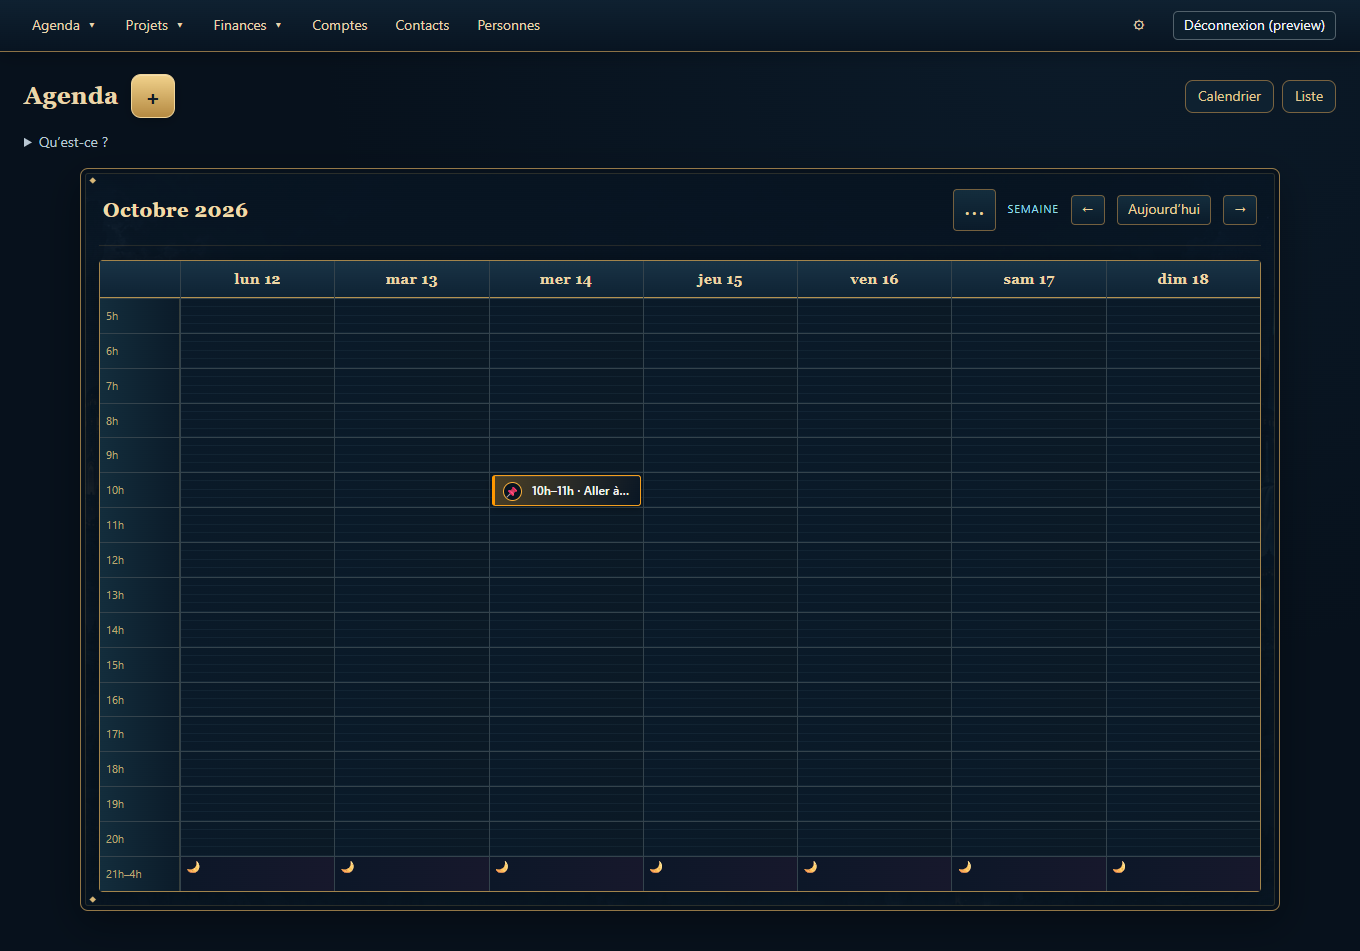
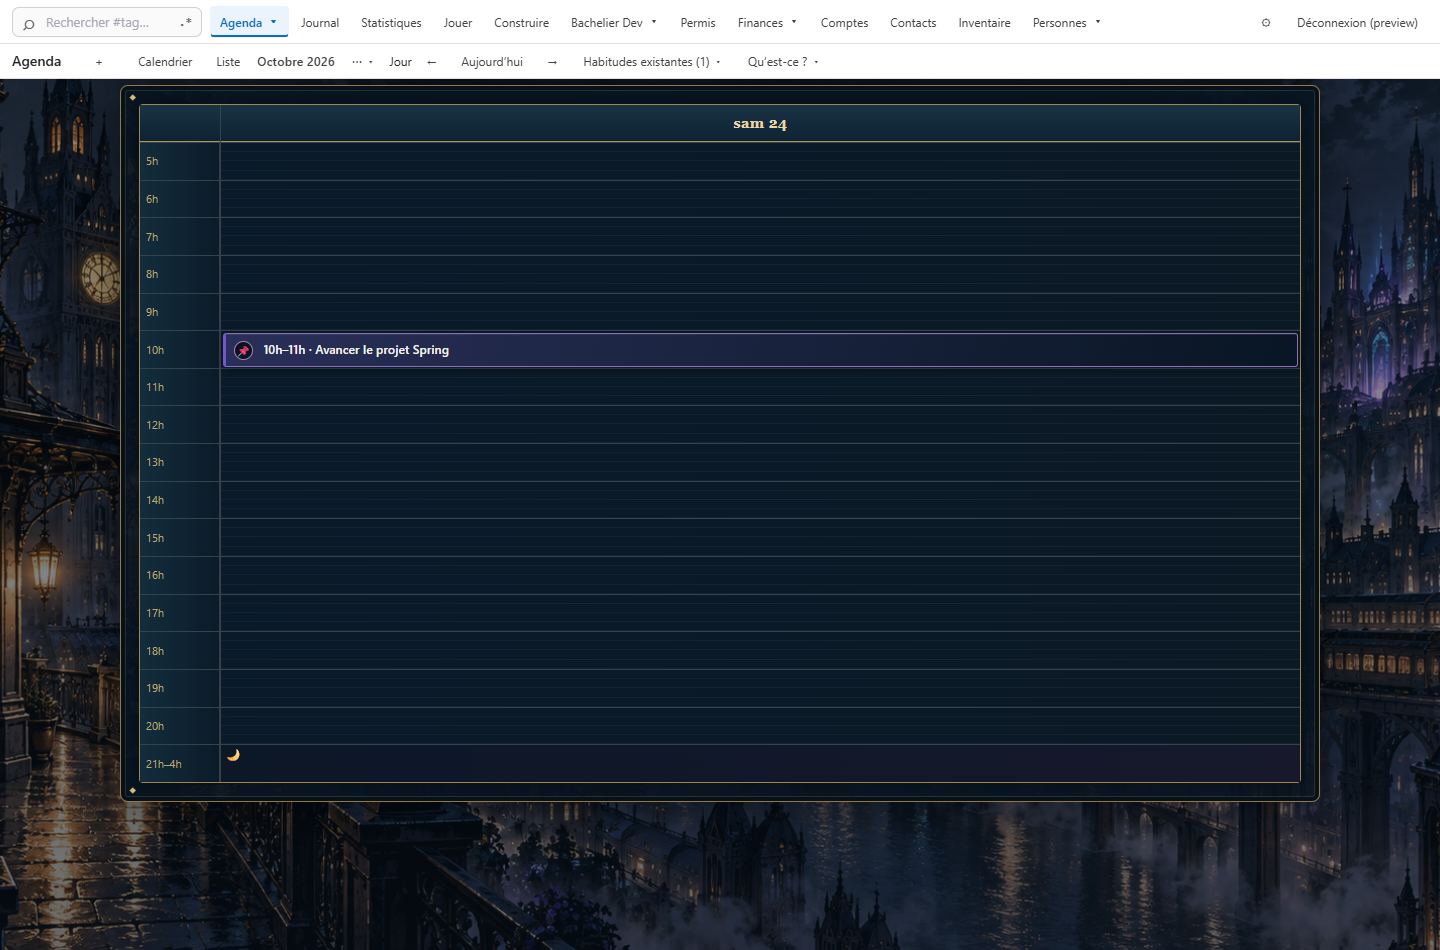
Présenter tous les onglets de GestionPerso

Changed region(s): [[0.0, 0.0, 1.0, 1.0], [0.3397, 0.4884, 0.4941, 0.5495]]

diff --git a/notes/gestionperso.md b/notes/gestionperso.md
@@ -5,28 +5,66 @@ tags: [erp, gestion-personnelle, planification, budget]
 thumbnail: "images/gestionperso/carte-des-objectifs.png"
 ---
 
-GestionPerso réunit dans une même application l’agenda, les objectifs, le journal d’activités, les finances et l’inventaire du foyer. Il permet de préparer une semaine, de consigner ce qui a été fait et de retrouver les informations qui y sont liées.
+GestionPerso rassemble la planification, le suivi des activités et la gestion du foyer. Une tâche décrit ce qu’on prévoit de faire. Une action consigne ce qui a été réalisé, avec le temps passé et, le cas échéant, le montant associé.
 
-## Planifier les tâches et les objectifs
+## Agenda
 
-L’agenda affiche les tâches et les habitudes par jour, semaine ou mois. Une tâche peut rester sans horaire jusqu’au moment où l’on décide de lui réserver un créneau.
+Le calendrier affiche les tâches et les habitudes par jour, semaine ou mois. Une tâche peut rester sans horaire jusqu’à ce qu’un créneau lui soit attribué. Le menu donne aussi accès aux **Occasions** et aux **Habitudes**, dont on peut régler la récurrence.
 
-![Agenda hebdomadaire avec un créneau planifié](../../images/gestionperso/agenda.png)
+![Agenda quotidien avec un créneau consacré au projet Spring et les onze onglets de navigation](../../images/gestionperso/agenda.png)
 
-La vue **Construire** permet de décomposer un objectif en étapes et de visualiser leurs dépendances. Pour une recherche de stage, par exemple, la carte peut relier la préparation du CV, les candidatures et la préparation d’un entretien.
+## Journal
+
+Le journal affiche le prévu et le réalisé côte à côte. Chaque action peut renseigner une durée, un résultat et une prochaine étape. Plusieurs séances peuvent faire avancer la même tâche, dont l’achèvement se confirme séparément.
+
+![Journal d’activités avec ses colonnes Prévu et Réalisé et la liste des actions du jour](../../images/gestionperso/journal.png)
+
+## Statistiques
+
+Les statistiques rapprochent le temps prévu du temps renseigné sur sept jours. Elles présentent la répartition des activités, les tâches achevées ou partiellement avancées et les coûts associés. Le temps sans saisie apparaît comme non renseigné.
+
+## Jouer
+
+Cette vue propose des séances chronométrées pour les campagnes **Stage** et **Spring**. Elle regroupe les tâches du jour, les jalons à confirmer et les notes de fin de séance. Les points suivent l’effort enregistré, tandis que les jalons suivent les résultats.
+
+![Vue Jouer avec les créneaux du jour, les campagnes Stage et Spring et les étapes à confirmer](../../images/gestionperso/jouer.png)
+
+## Construire
+
+La carte permet de décomposer un objectif en tâches et de relier celles qui dépendent les unes des autres. Pour une recherche de stage, elle peut par exemple relier la préparation du CV, les candidatures et la préparation d’un entretien.
 
 ![Carte des objectifs et des dépendances entre tâches](../../images/gestionperso/carte-des-objectifs.png)
 
-## Suivre ce qui a été réalisé
+## Bachelier Dev
 
-Le journal permet de renseigner une activité, sa durée, son résultat et, si nécessaire, la prochaine étape ou une dépense. Plusieurs séances peuvent faire avancer une même tâche, dont l’achèvement est indiqué séparément. Les statistiques rapprochent le temps prévu dans l’agenda du temps renseigné dans le journal.
+Cet espace regroupe les tâches du cursus par branche. Le menu ouvre directement **Intégration professionnelle**, **Spring** et **Aide décisionnelle**.
 
-## Suivre les dépenses et les biens du foyer
+## Permis
 
-Le budget regroupe par compte les recettes et dépenses associées aux activités. Une vue des flux permet de suivre les montants renseignés, de leur provenance à leur usage. Le rapprochement avec le registre des opérations bancaires reste manuel.
+L’onglet **Permis** est présent dans la navigation des comptes habilités. Son écran est encore vide dans la version présentée.
 
-L’inventaire rassemble les biens par personne. Chaque fiche peut préciser la catégorie, l’emplacement, l’état et la valeur déclarée du bien. Un objet peut être associé à une tâche ou à une activité.
+## Finances
+
+Le **Budget** regroupe par compte les recettes et dépenses liées aux actions. La vue **Flux d’argent** relie les montants saisis à leur provenance, au compte, à l’usage et à l’action correspondante. Le menu donne aussi accès aux **Comptes bancaires**, aux **Transactions** et aux **Abonnements**. Le rapprochement avec le registre des opérations bancaires reste manuel.
+
+![Carte des flux reliant une dépense de courses à un compte et à une catégorie](../../images/gestionperso/flux-argent.png)
+
+## Comptes
+
+Cet onglet rassemble les fiches de comptes d’accès à des services. Les comptes bancaires se consultent dans le menu Finances.
+
+## Contacts
+
+Le répertoire permet de créer, de retrouver et de trier les fiches de contacts.
+
+## Inventaire
+
+L’inventaire rassemble les biens par personne. Chaque fiche peut préciser la catégorie, l’emplacement, l’état et la valeur déclarée du bien. Un objet peut être associé à une tâche ou à une action.
 
 ![Inventaire de démonstration avec un ordinateur rattaché à une fiche de test](../../images/gestionperso/inventaire.png)
+
+## Personnes
+
+Le menu donne accès aux fiches des **Personnes du foyer** et à leurs **Routines**. La vue Routines reprend sur sept jours les tâches et les habitudes de la personne sélectionnée, à partir des mêmes données que l’agenda.
 
 *Captures issues de prévisualisations de l’application.*
